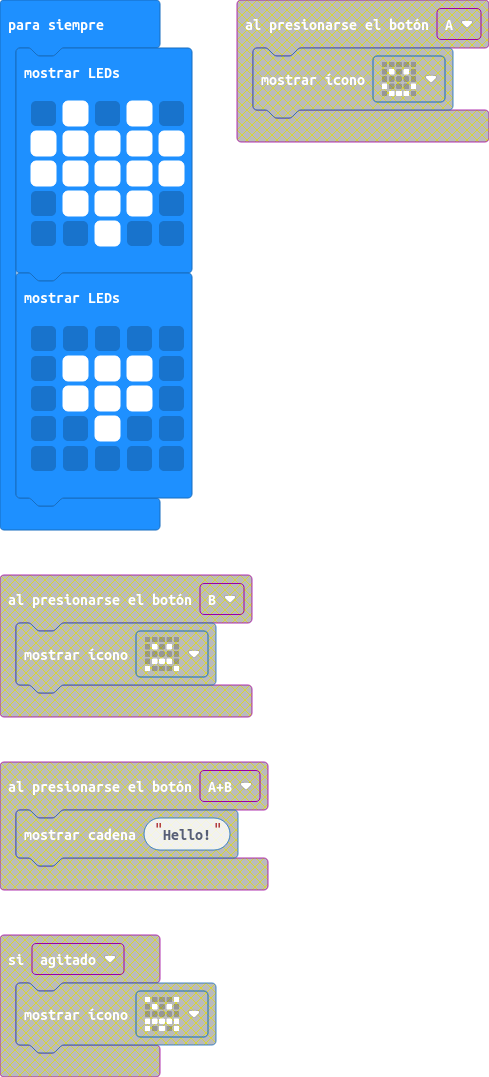
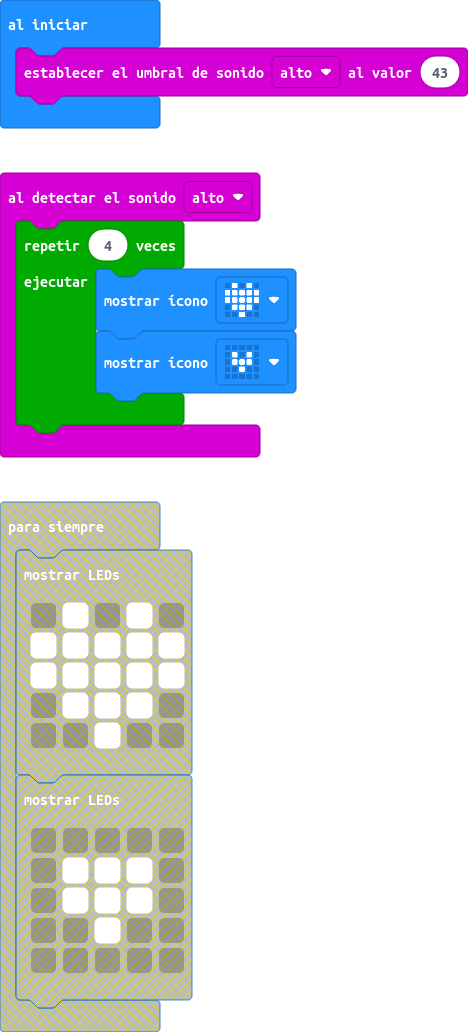
Actualizar pxt.json, main.blocks, main.ts

diff --git a/main.ts b/main.ts
@@ -1,16 +1,7 @@
-basic.forever(function () {
-    basic.showLeds(`
-        . # . # .
-        # # # # #
-        # # # # #
-        . # # # .
-        . . # . .
-        `)
-    basic.showLeds(`
-        . . . . .
-        . # # # .
-        . # # # .
-        . . # . .
-        . . . . .
-        `)
+input.onSound(DetectedSound.Loud, function () {
+    for (let index = 0; index < 4; index++) {
+        basic.showIcon(IconNames.Heart)
+        basic.showIcon(IconNames.SmallHeart)
+    }
 })
+input.setSoundThreshold(SoundThreshold.Loud, 43)
